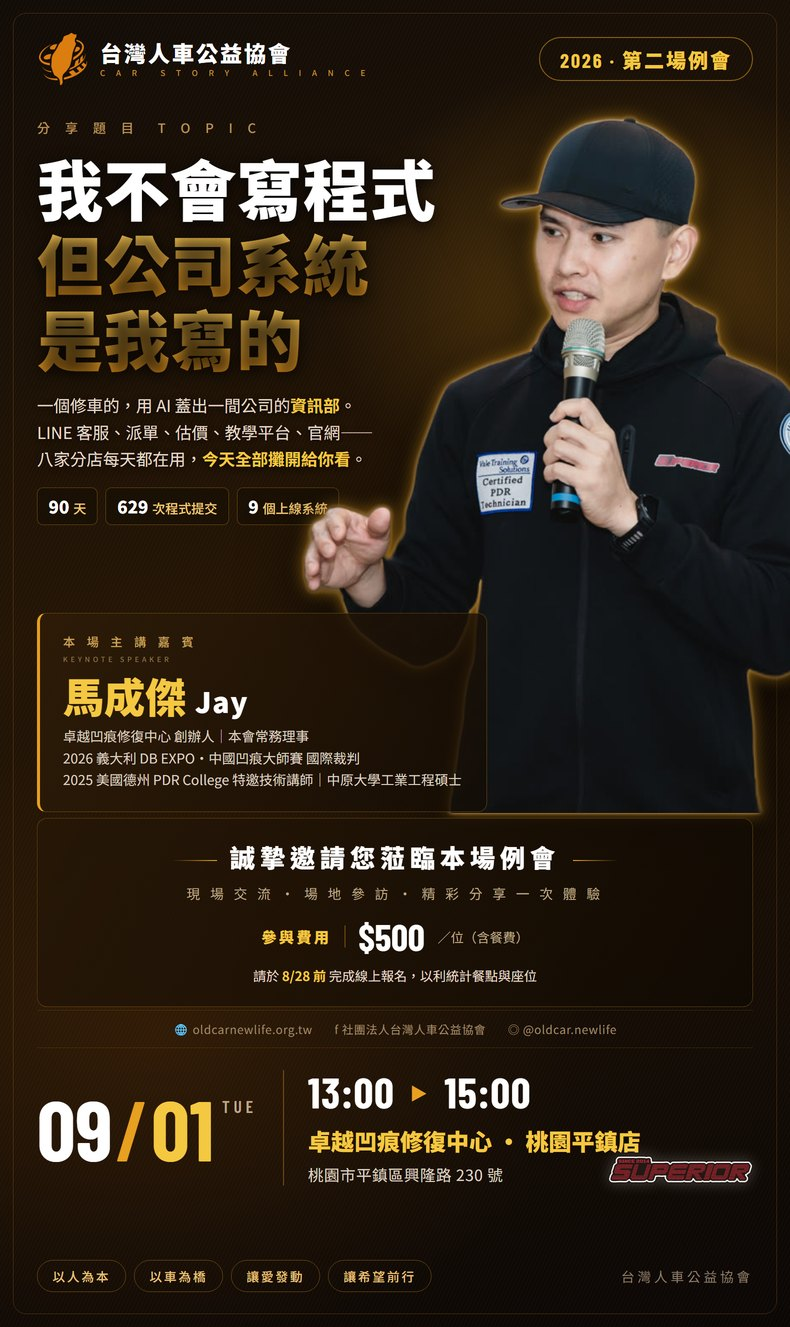
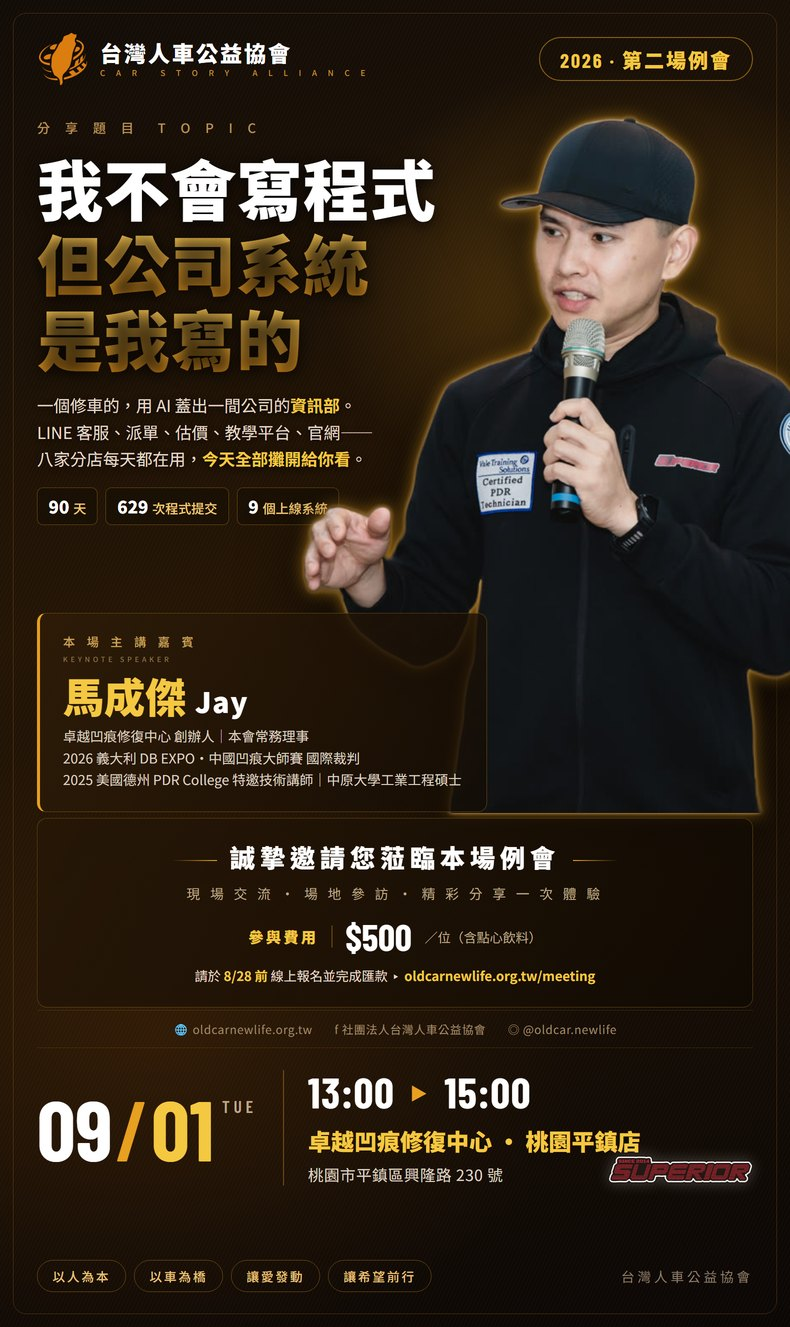
feat(meeting): 報名加匯款流程——費用 500/人含點心飲料、協會帳戶、匯款金額(依人數自動帶入)與末五碼
- 報名頁新增匯款帳戶區塊與匯款金額／末五碼欄位，狀態改為待確認匯款
- apps-script 例會報名分頁加匯款金額、匯款末五碼兩欄（需重新部署）
- DM 同步改為含點心飲料＋報名網址

Claude-Session: https://claude.ai/code/session_01KLokodCTWkUYmXUGMAWQtS

Changed region(s): [[0.243, 0.6797, 0.7595, 0.7415]]

diff --git a/meeting/index.html b/meeting/index.html
@@ -4,7 +4,7 @@
 <meta charset="UTF-8">
 <meta name="viewport" content="width=device-width, initial-scale=1.0">
 <title>2026 第二場例會報名 | 社團法人台灣人車公益協會</title>
-<meta name="description" content="2026 第二場例會｜9/1（二）13:00-15:00 卓越凹痕修復中心 桃園平鎮店。主講：馬成傑 Jay《我不會寫程式，但公司系統是我寫的》。參與費用 $500／位含餐費，線上報名。">
+<meta name="description" content="2026 第二場例會｜9/1（二）13:00-15:00 卓越凹痕修復中心 桃園平鎮店。主講：馬成傑 Jay《我不會寫程式，但公司系統是我寫的》。參與費用 $500／位（含點心飲料），線上報名。">
 <meta name="keywords" content="人車公益協會例會,協會例會報名,馬成傑,卓越凹痕修復中心,桃園平鎮,AI 導入,車圈交流">
 <meta name="robots" content="index, follow">
 <link rel="canonical" href="https://oldcarnewlife.org.tw/meeting/">
@@ -96,6 +96,14 @@ nav #nav-home:hover,nav #nav-about:hover,nav #nav-members:hover,nav #nav-videos:
 .f textarea{min-height:84px;resize:vertical}
 .fee-box{background:rgba(232,160,32,.08);border:1px solid rgba(232,160,32,.35);border-radius:12px;padding:16px 18px;margin-bottom:20px;font-size:13.5px;line-height:1.9;color:#5a4a2a}
 .fee-box b{color:#b4761a}
+.acct{background:#fff;border:1px dashed rgba(232,160,32,.55);border-radius:12px;padding:18px 20px 16px;margin-bottom:22px}
+.acct h4{font-size:14px;font-weight:900;margin-bottom:12px;color:#333}
+.acct-row{display:flex;gap:12px;padding:7px 0;border-bottom:1px solid var(--border);font-size:14px}
+.acct-row:last-of-type{border-bottom:none}
+.acct-row .k{flex:0 0 54px;color:var(--muted);font-size:13px}
+.acct-row .v{font-weight:700;letter-spacing:.5px}
+.acct-note{margin-top:10px;font-size:12px;color:var(--muted)}
+.hint{margin-top:6px;font-size:11.5px;color:var(--dim)}
 .submit{width:100%;padding:15px;background:var(--gold);color:#0a0b0f;border:none;border-radius:11px;font-size:16px;font-weight:900;
   cursor:pointer;font-family:'Noto Sans TC',sans-serif;margin-top:6px}
 .submit:hover{background:var(--gold-light)}
@@ -151,7 +159,7 @@ nav #nav-home:hover,nav #nav-about:hover,nav #nav-members:hover,nav #nav-videos:
       <div class="when">
         <div>📅 <b>9/1（二）</b> 13:00-15:00</div>
         <div>📍 <b>桃園平鎮</b> 卓越凹痕修復中心</div>
-        <div>💰 <b>$500</b>／位（含餐費）</div>
+        <div>💰 <b>$500</b>／位（含點心飲料）</div>
       </div>
       <div class="hero-cta">
         <a class="btn gold" href="#signup">立即線上報名</a>
@@ -231,8 +239,16 @@ nav #nav-home:hover,nav #nav-about:hover,nav #nav-members:hover,nav #nav-videos:
   <div class="sec-head" id="signup"><span class="kicker">SIGN UP</span><h2>線上報名</h2><div class="rule"></div></div>
   <div class="form-sec">
     <div class="fee-box">
-      參與費用 <b>$500／位（含餐費）</b>，現場繳交。<br>
-      為統計餐點與座位，請於 <b>8/28（四）前</b> 完成報名；報名後若不克出席，請提前告知協會，以免造成餐點浪費。
+      參與費用 <b>$500／位</b>，現場備有<b>點心與飲料</b>。<br>
+      請於 <b>8/28（四）前</b> 完成報名並匯款，以利統計點心與座位；報名後若不克出席，請提前告知協會。
+    </div>
+
+    <div class="acct">
+      <h4>💳 報名費匯款帳戶</h4>
+      <div class="acct-row"><span class="k">銀行</span><span class="v">國泰銀行 新泰分行</span></div>
+      <div class="acct-row"><span class="k">帳號</span><span class="v">214 · 03-50107-18</span></div>
+      <div class="acct-row"><span class="k">戶名</span><span class="v">社團法人台灣人車公益協會</span></div>
+      <div class="acct-note">匯款後請在下方填寫金額與帳號末五碼，方便協會對帳。</div>
     </div>
 
     <form id="meetingForm">
@@ -274,6 +290,12 @@ nav #nav-home:hover,nav #nav-about:hover,nav #nav-members:hover,nav #nav-videos:
           </select>
         </div>
       </div>
+      <div class="frow">
+        <div class="f"><label>匯款金額<i>*</i></label><input type="text" name="amount" id="amount" required placeholder="500">
+          <div class="hint">依出席人數自動帶入（每位 $500），可自行修改</div></div>
+        <div class="f"><label>匯款帳號末五碼<i>*</i></label><input type="text" name="transferCode" required maxlength="5" placeholder="12345" inputmode="numeric">
+          <div class="hint">方便協會對帳，感謝配合</div></div>
+      </div>
       <div class="f" style="margin-bottom:16px;"><label>備註</label><textarea name="note" placeholder="想先問的問題、同行夥伴名單、其他需求…"></textarea></div>
       <input type="hidden" name="session" value="2026 第二場例會 · 9/1 桃園平鎮">
       <button type="submit" class="submit" id="submitBtn">送出報名</button>
@@ -282,8 +304,8 @@ nav #nav-home:hover,nav #nav-about:hover,nav #nav-members:hover,nav #nav-videos:
     <div class="success" id="successScreen">
       <div class="ic">✅</div>
       <h3>報名完成，9/1 見！</h3>
-      <p>我們已收到你的報名資料。<br>
-      活動前協會會再以電話或 LINE 與你確認出席人數。<br>
+      <p>我們已收到你的報名資料，協會會核對匯款後與你確認。<br>
+      活動前會再以電話或 LINE 聯繫，現場備有點心與飲料。<br>
       地點：卓越凹痕修復中心 桃園平鎮店（桃園市平鎮區興隆路 230 號）</p>
       <p style="margin-top:20px;"><a class="btn gold" href="../">回到協會首頁</a></p>
     </div>
@@ -322,6 +344,15 @@ function showToast(msg){
   clearTimeout(window._tt);window._tt=setTimeout(()=>t.classList.remove('show'),3800);
 }
 
+// 出席人數 × 500 自動帶入匯款金額
+(function(){
+  const cnt=document.querySelector('select[name="count"]'), amt=document.getElementById('amount');
+  if(!cnt||!amt) return;
+  const sync=()=>{ const n=parseInt(cnt.value,10); if(!isNaN(n)) amt.value=n*500; };
+  sync();
+  cnt.addEventListener('change', sync);
+})();
+
 document.getElementById('meetingForm').addEventListener('submit', async function(e){
   e.preventDefault();
   const btn=document.getElementById('submitBtn');
@@ -335,6 +366,7 @@ document.getElementById('meetingForm').addEventListener('submit', async function
     if(json.status==='success'){
       e.target.style.display='none';
       document.querySelector('.fee-box').style.display='none';
+      const ac=document.querySelector('.acct'); if(ac) ac.style.display='none';
       document.getElementById('successScreen').style.display='block';
       window.scrollTo({top:document.getElementById('signup').offsetTop-40,behavior:'smooth'});
     } else { throw new Error(json.message||'fail'); }
